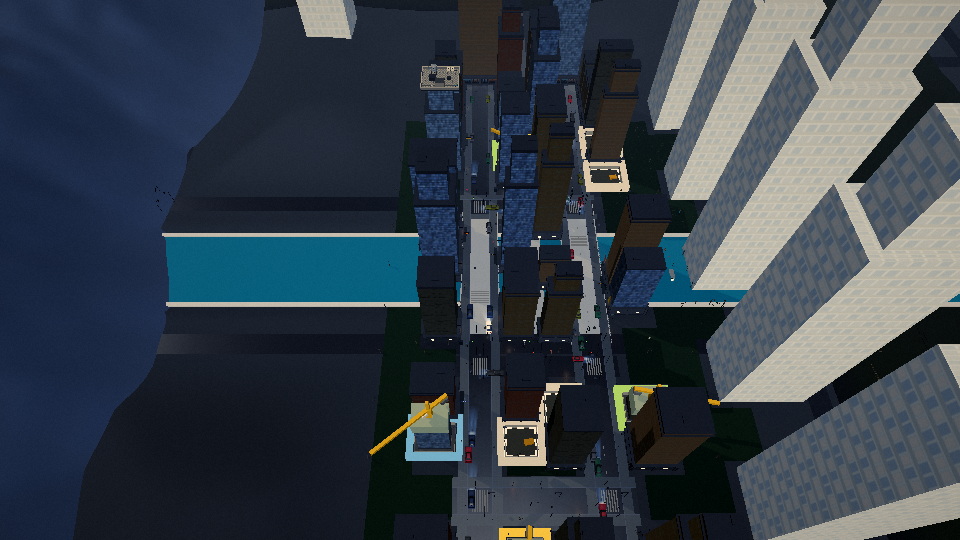
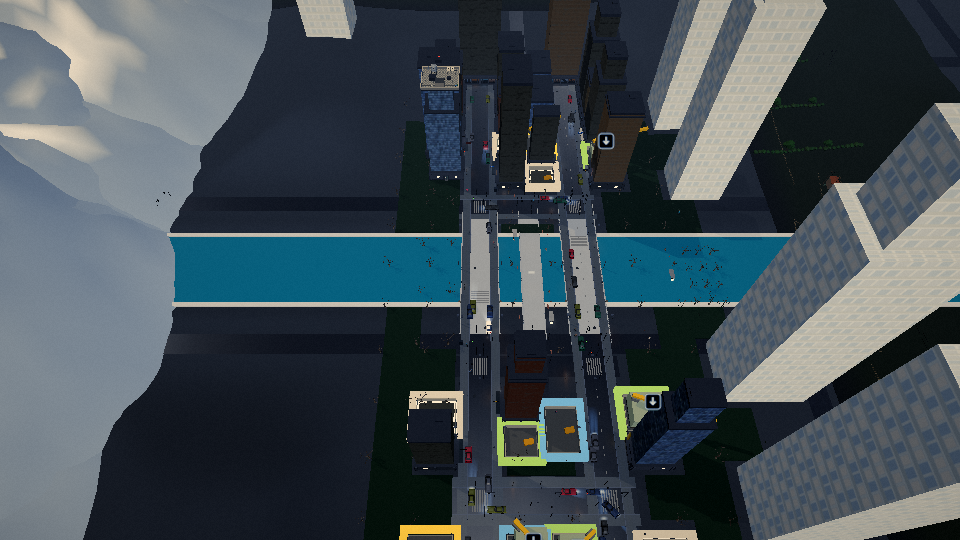
M4.T8c (M4-2): nothing stands in the river
Plans keep off map.water: rows, lots, pinned towers, caps and ring towers.
Why: seed 7 stood 8 buildings, 6 rows and 5 lots in the river rect.
Draws: no new draw calls (sim only); gate 125 hand / 128 seed 7, limit 175.

diff --git a/src/sim/layout.js b/src/sim/layout.js
@@ -13,7 +13,8 @@
 // Pure sim (law 5): no three.js, no DOM.
 import { DISTRICTS, ROAD_HALF_WIDTH, WALKWAY_WIDTH, buildable } from './world.js';
 import { worldSeed } from './seedstore.js';
-import { BUILD_LINE, PINNED_TOWERS, pinnedBuildings } from './landmarks.js';
+import { BUILD_LINE, PINNED_TOWERS, pinnedBuildings, riverWater } from './landmarks.js';
+import { waterBlocked } from './terrain.js';
 import { capsFor } from './vistas.js';
 import { mulberry32 } from './rng.js';
 
@@ -59,12 +60,23 @@ export function rowDepth(district, ax, side) {
   return Math.min(max, fair);
 }
 
+// The z bands the river takes from a row whose x band is [x0, x1] (M4-2): each
+// water rect the band reaches. Only bridges cross water, so a row, a lot and a
+// building cut from one never stand in it. The 8 m setback terrain.buildable
+// adds is the world rule for the map's lots (map.js); a row runs to the bank,
+// or the river would leave too little frontage for the lots a district offers.
+function waterHoles(water, x0, x1) {
+  return water
+    .filter(([cx, , hw]) => x0 < cx + hw && x1 > cx - hw)
+    .map(([, cz, , hd]) => [cz - hd, cz + hd]);
+}
+
 // Where a row may stand on one avenue side, as sorted [z0, z1] runs: the
 // avenue's length less ROW_END_GAP at each end, less every crossing that comes
 // within ROW_END_GAP of the row's band (x from the building line back by
-// rowDepth), cut ROW_END_GAP wider than its CROSSING_BAND. Runs shorter than
-// MIN_RUN are dropped.
-export function rowRuns(district, ax, side) {
+// rowDepth), cut ROW_END_GAP wider than its CROSSING_BAND, less the `water`
+// (map.water). Runs shorter than MIN_RUN are dropped.
+export function rowRuns(district, ax, side, water = []) {
   const depth = rowDepth(district, ax, side);
   const near = ax + side * BUILD_LINE;
   const far = ax + side * (BUILD_LINE + depth);
@@ -85,7 +97,7 @@ export function rowRuns(district, ax, side) {
     cursor = Math.max(cursor, cz1);
   }
   if (end - cursor >= MIN_RUN) runs.push([cursor, end]);
-  return runs;
+  return subtractRuns(runs, waterHoles(water, bx0, bx1)).filter(([z0, z1]) => z1 - z0 >= MIN_RUN);
 }
 
 const EPS = 1e-6;
@@ -171,17 +183,35 @@ function placeLot(sides, [w0, w1], rand) {
   return { lot, ax, side, depth };
 }
 
+// The fewest-gaps fill: every side's shortest lots laid end to end from its low
+// end, until `count` stand. A random pass wastes frontage; where the river has
+// taken half of it, the district would fall under LOTS_MIN lots without this.
+function packLots(sides, lo, hi, count) {
+  const picked = [];
+  for (const side of sides) {
+    side.placed = [];
+    for (let ranges = lotRanges(side, LOT_FRONT[0], lo, hi); ranges.length && picked.length < count;
+      ranges = lotRanges(side, LOT_FRONT[0], lo, hi)) {
+      const z = ranges[0][0];
+      side.placed.push({ z, d: LOT_FRONT[0] });
+      picked.push({ lot: [side.ax + side.side * (BUILD_LINE + side.depth / 2), z, side.depth, LOT_FRONT[0]],
+        ax: side.ax, side: side.side, depth: side.depth });
+    }
+  }
+  return picked;
+}
+
 // One pass over every avenue side: the side's free z runs, then one lot per
 // band so the lots spread across the district. A band with no room on any side
 // falls back to anywhere in the drive. Tagged with avenue and side for planLayout.
-function districtLots(district, seed, pinned) {
+function districtLots(district, seed, pinned, water) {
   const rand = mulberry32(seed);
   const lo = district.drive.minZ;
   const hi = district.drive.maxZ;
   const count = LOTS_MIN + Math.floor(rand() * (LOTS_MAX - LOTS_MIN + 1));
   const sides = district.avenues.flatMap((a) => [-1, 1].map((side) => {
     const depth = rowDepth(district, a.x, side);
-    const runs = subtractRuns(rowRuns(district, a.x, side), pinsOn(district, a.x, side, pinned))
+    const runs = subtractRuns(rowRuns(district, a.x, side, water), pinsOn(district, a.x, side, pinned))
       .map(([f0, f1]) => [Math.max(f0, lo), Math.min(f1, hi)])
       .filter(([f0, f1]) => f1 - f0 > EPS);
     return { ax: a.x, side, depth, runs, placed: [] };
@@ -191,7 +221,7 @@ function districtLots(district, seed, pinned) {
     const spot = placeLot(sides, band, rand) || placeLot(sides, [lo, hi], rand);
     if (spot) picked.push(spot);
   }
-  return picked;
+  return picked.length >= LOTS_MIN ? picked : packLots(sides, lo, hi, count);
 }
 
 // The district's lots, as [x, z, w, d] like zoning's LOTS: LOTS_MIN..LOTS_MAX of
@@ -199,9 +229,10 @@ function districtLots(district, seed, pinned) {
 // a LOT_FRONT long inside one of that side's rowRuns, wholly inside the
 // district's drive bounds in z, clear of the pinned towers, and never
 // overlapping another lot. The same seed always gives the same lots. `pinned`
-// is the map's own tower table; omitted, the hand map's PINNED_TOWERS.
-export function deriveLots(district, seed, pinned = PINNED_TOWERS) {
-  return districtLots(district, seed, pinned).map((p) => p.lot);
+// is the map's own tower table; omitted, the hand map's PINNED_TOWERS. `water`
+// is the map's water; omitted, the seed's river.
+export function deriveLots(district, seed, pinned = PINNED_TOWERS, water = riverWater(seed)) {
+  return districtLots(district, seed, pinned, water).map((p) => p.lot);
 }
 
 // Everything the street wall and zoning need: { district, seed, lots, rows },
@@ -210,13 +241,15 @@ export function deriveLots(district, seed, pinned = PINNED_TOWERS) {
 // avenue side: rowRuns less each lot widened by LOT_CLEAR and the pinned towers
 // (on the first avenue) widened by PIN_CLEAR, with runs under MIN_RUN dropped.
 // `pinned` is the map's own tower table; omitted, the hand map's PINNED_TOWERS.
-export function planLayout(district, seed, pinned = PINNED_TOWERS) {
-  const picked = districtLots(district, seed, pinned);
+// `water` is the map's water; omitted, the seed's river: no lot or row stands in
+// it (M4-2).
+export function planLayout(district, seed, pinned = PINNED_TOWERS, water = riverWater(seed)) {
+  const picked = districtLots(district, seed, pinned, water);
   const rows = district.avenues.flatMap((a) => [-1, 1].map((side) => {
     const holes = picked.filter((p) => p.ax === a.x && p.side === side)
       .map((p) => [p.lot[1] - p.lot[3] / 2 - LOT_CLEAR, p.lot[1] + p.lot[3] / 2 + LOT_CLEAR])
       .concat(pinsOn(district, a.x, side, pinned));
-    const runs = subtractRuns(rowRuns(district, a.x, side), holes)
+    const runs = subtractRuns(rowRuns(district, a.x, side, water), holes)
       .filter(([z0, z1]) => z1 - z0 >= MIN_RUN - EPS);
     return { ax: a.x, side, depth: rowDepth(district, a.x, side), runs };
   }));
@@ -536,9 +569,12 @@ function rowBuilding(b) {
 // style the district style a use comes from (rows), facade the architecture
 // render/block.js pools, x/z/w/d the footprint, h the height, face the front.
 // `plan` is planLayout's; plan.pinned and plan.caps override the world's own,
-// so a map built for another seed uses that seed's towers and caps.
+// so a map built for another seed uses that seed's towers and caps. A cap the
+// river reaches is left out: an avenue's end may open on the stream.
 export function buildingsOf(plan) {
-  const caps = plan.caps ?? capsFor(plan.district, plan.seed);
+  const water = riverWater(plan.seed);
+  const caps = (plan.caps ?? capsFor(plan.district, plan.seed))
+    .filter((c) => !waterBlocked(water, c.x, c.z, c.w, c.d));
   return [
     ...pinnedBuildings(plan.district, plan.pinned),
     ...planBuildings(plan.district, plan.seed, plan).map(rowBuilding),

diff --git a/src/sim/landmarks.js b/src/sim/landmarks.js
@@ -7,6 +7,15 @@
 // Pure sim (law 5): no three.js, no DOM.
 import { AVENUES, AVENUE_X, CROSSINGS, ROAD_HALF_WIDTH, WALKWAY_WIDTH } from './world.js';
 import { worldSeed } from './seedstore.js';
+import { planTown } from './townplan.js';
+import { waterBlocked } from './terrain.js';
+
+// The town's water for a seed, as terrain's [cx, cz, hw, hd] rects: map.water,
+// derived without building the map, so a plan that runs before it (layout,
+// dressing, the pinned towers) keeps off the same river the map carries (M4-2).
+export function riverWater(seed) {
+  return planTown(seed).river.rects;
+}
 
 // Shaft face of every avenue row, metres from the avenue centre-line. The
 // podium stands 0.6 m proud of it, so the shopfronts meet the walkway edge.
@@ -31,14 +40,16 @@ export const PIN_BAND = ROAD_HALF_WIDTH + WALKWAY_WIDTH;
 // footprint (z - d / 2 to z + d / 2) stays PIN_GAP clear of every crossing band
 // (c.z +- PIN_BAND), of the avenue's z0 and z1, and of every tower already
 // placed; otherwise it takes the nearest z on the half-metre grid that does,
-// trying hand z - 0.5, hand z + 0.5, hand z - 1, ... in that order.
+// trying hand z - 0.5, hand z + 0.5, hand z - 1, ... in that order. A tower
+// never stands on water or in its setback (M4.T8c): a z the river reaches is
+// not free.
 // A tower at z clears the span z0..z1 (already widened by whatever gap the
 // caller owes) when its footprint sits entirely outside it.
 function clearOf(t, z, z0, z1) {
   return z + t.d / 2 <= z0 || z - t.d / 2 >= z1;
 }
 
-function isFree(t, z, placed, avenue, crossings) {
+function isFree(t, z, placed, avenue, crossings, water) {
   if (z - t.d / 2 < avenue.z0 + PIN_GAP) return false;
   if (z + t.d / 2 > avenue.z1 - PIN_GAP) return false;
   for (const c of crossings) {
@@ -47,30 +58,32 @@ function isFree(t, z, placed, avenue, crossings) {
   for (const u of placed) {
     if (!clearOf(t, z, u.z - u.d / 2 - PIN_GAP, u.z + u.d / 2 + PIN_GAP)) return false;
   }
-  return true;
+  return !waterBlocked(water, towerCentreX(t, avenue.x), z, t.w, t.d);
 }
 
 // hand z first, then hand z - 0.5, hand z + 0.5, hand z - 1, ... — nearest first.
-function nearestFreeZ(t, placed, avenue, crossings) {
-  if (isFree(t, t.z, placed, avenue, crossings)) return t.z;
+function nearestFreeZ(t, placed, avenue, crossings, water) {
+  if (isFree(t, t.z, placed, avenue, crossings, water)) return t.z;
   const span = avenue.z1 - avenue.z0;
   for (let n = 1; n <= span * 2; n++) {
     const step = Math.ceil(n / 2) * 0.5;
     const z = t.z + (n % 2 === 1 ? -step : step);
-    if (isFree(t, z, placed, avenue, crossings)) return z;
+    if (isFree(t, z, placed, avenue, crossings, water)) return z;
   }
   throw new Error(`landmarks: no free z for ${t.id}`);
 }
 
-export function placePinned(hand, avenue, crossings) {
+export function placePinned(hand, avenue, crossings, water = []) {
   const placed = [];
   for (const t of hand) {
-    placed.push({ ...t, z: nearestFreeZ(t, placed, avenue, crossings) });
+    placed.push({ ...t, z: nearestFreeZ(t, placed, avenue, crossings, water) });
   }
   return placed;
 }
 
-export const PINNED_TOWERS = worldSeed().generate ? placePinned(HAND_PINNED, AVENUES[0], CROSSINGS) : HAND_PINNED;
+export const PINNED_TOWERS = worldSeed().generate
+  ? placePinned(HAND_PINNED, AVENUES[0], CROSSINGS, riverWater(worldSeed().seed))
+  : HAND_PINNED;
 
 // Where a tower's shaft centre stands: out from its avenue centre-line by the
 // building line plus half the shaft width. `ax` lets a generated map use its own.

diff --git a/tests/dressing-place.spec.js b/tests/dressing-place.spec.js
@@ -5,7 +5,7 @@
 import { test, expect } from '@playwright/test';
 import { generateDistrict } from '../src/sim/citygen.js';
 import { planLayout } from '../src/sim/layout.js';
-import { HAND_PINNED, placePinned } from '../src/sim/landmarks.js';
+import { HAND_PINNED, placePinned, riverWater } from '../src/sim/landmarks.js';
 import { spawnFor } from '../src/sim/spawn.js';
 import { mulberry32 } from '../src/sim/rng.js';
 import { ROAD_HALF_WIDTH, WALKWAY_WIDTH } from '../src/sim/world.js';
@@ -32,7 +32,7 @@ function clearZ(d, k, z) {
 // The rule, written out a second way.
 function expected(d, seed) {
   const a0 = d.avenues[0];
-  const ramen = placePinned(HAND_PINNED, a0, d.crossings).find((t) => t.id === 'ramen');
+  const ramen = placePinned(HAND_PINNED, a0, d.crossings, riverWater(seed)).find((t) => t.id === 'ramen');
   const face = (side) => (side < 0 ? Math.PI / 2 : -Math.PI / 2);
   const shops = [{ x: a0.x + ramen.side * SHOP_OUT, z: ramen.z + RAMEN_SIGN_DZ, ry: face(ramen.side), kind: 0 }];
   const cands = [];
@@ -97,7 +97,7 @@ test('the RAMEN board hangs on the noodle bar and every other sign on a wall wid
   for (const seed of SEEDS) {
     const d = generateDistrict(seed);
     const { shops } = planDressing(d, seed);
-    const ramen = placePinned(HAND_PINNED, d.avenues[0], d.crossings).find((t) => t.id === 'ramen');
+    const ramen = placePinned(HAND_PINNED, d.avenues[0], d.crossings, riverWater(seed)).find((t) => t.id === 'ramen');
     expect(shops[0].kind, `seed ${seed}`).toBe(0);
     expect(shops.slice(1).some((s) => s.kind === 0), `seed ${seed}: a second RAMEN`).toBe(false);
     expect(Math.abs(shops[0].z - ramen.z) + 3, `seed ${seed}: RAMEN off its tower`).toBeLessThanOrEqual(ramen.d / 2);

diff --git a/src/sim/vistas.js b/src/sim/vistas.js
@@ -8,6 +8,7 @@
 // is the hand map's fallback until M3.T14 deletes it (M3-2).
 import { DISTRICTS } from './world.js';
 import { worldSeed } from './seedstore.js';
+import { waterBlocked } from './terrain.js';
 import { mulberry32 } from './rng.js';
 
 // Its own random stream, so a vista never moves a lot or a row building.
@@ -125,11 +126,16 @@ export function planVistas(district, seed) {
 // buildings, and its ring derives from the map's own district and seed; a map
 // without buildings is the hand preset, whose renderer keeps its own tables.
 // With no map the booted world's WORLD_VISTAS stands, so today's callers are
-// unchanged until M3.T13's renderer passes the map (M3-2).
+// unchanged until M3.T13's renderer passes the map (M3-2). A ring tower the
+// map's water reaches is left out: only bridges cross the river (M4-2).
 export function vistasOf(map) {
   if (!map) return WORLD_VISTAS;
   if (!map.buildings) return null;
-  return { caps: map.buildings.filter((b) => b.kind === 'cap'), ring: ringFor(map.district, map.seed) };
+  const water = map.water ?? [];
+  return {
+    caps: map.buildings.filter((b) => b.kind === 'cap'),
+    ring: ringFor(map.district, map.seed).filter((t) => !waterBlocked(water, t.x, t.z, t.w, t.d)),
+  };
 }
 
 export const WORLD_VISTAS = worldSeed().generate ? planVistas(DISTRICTS[0], worldSeed().seed) : null;

diff --git a/src/sim/dressing.js b/src/sim/dressing.js
@@ -15,7 +15,7 @@ import { DISTRICTS } from './world.js';
 import { worldSeed } from './seedstore.js';
 import { mulberry32 } from './rng.js';
 import { planLayout } from './layout.js';
-import { HAND_PINNED, placePinned } from './landmarks.js';
+import { HAND_PINNED, placePinned, riverWater } from './landmarks.js';
 import { spawnFor } from './spawn.js';
 
 // What the hand preset has always drawn. A shop is { x, z, ry, kind }: the sign
@@ -132,7 +132,7 @@ const face = (side) => (side < 0 ? Math.PI / 2 : -Math.PI / 2);
 
 function shopsFor(district, seed) {
   const a0 = district.avenues[0];
-  const ramen = placePinned(HAND_PINNED, a0, district.crossings).find((t) => t.id === 'ramen');
+  const ramen = placePinned(HAND_PINNED, a0, district.crossings, riverWater(seed)).find((t) => t.id === 'ramen');
   const shops = [{ x: a0.x + ramen.side * SHOP_OUT, z: ramen.z + RAMEN_SIGN_DZ, ry: face(ramen.side), kind: 0 }];
   const cands = [];
   for (const r of planLayout(district, seed).rows) {

diff --git a/tests/layout-lots.spec.js b/tests/layout-lots.spec.js
@@ -6,6 +6,7 @@ import {
   BUILD_LINE, LOT_CLEAR, LOT_FRONT, LOTS_MAX, LOTS_MIN, MIN_RUN, PIN_CLEAR, PINNED_TOWERS,
   deriveLots, planLayout, rowDepth, rowRuns,
 } from '../src/sim/layout.js';
+import { riverWater } from '../src/sim/landmarks.js';
 import { sweep } from './sweep.js';
 
 const SEEDS = sweep(300);
@@ -84,7 +85,7 @@ test('the plan cuts every lot and pinned tower out of its row', () => {
     for (const row of plan.rows) {
       const at = `seed ${seed} row x=${row.ax} side ${row.side}`;
       expect(row.depth, `${at}: depth`).toBeCloseTo(rowDepth(d, row.ax, row.side), 9);
-      const full = rowRuns(d, row.ax, row.side);
+      const full = rowRuns(d, row.ax, row.side, riverWater(seed));
       const mine = plan.lots.filter((lot) => {
         const h = homeOf(d, lot);
         return h && h.ax === row.ax && h.side === row.side;

diff --git a/src/sim/map.js b/src/sim/map.js
@@ -233,8 +233,11 @@ export function createMap(seed) {
   const town = planTown(seed);
   const water = town.river.rects;
   const cells = town.cells.map((cell) => generateDistrict(seed, cell, cell.kind));
-  const plan = planLayout(district, seed);
-  plan.pinned = placePinned(HAND_PINNED, district.avenues[0], district.crossings);
+  // The towers first: the plan's lots and rows keep clear of where they stand
+  // on this map, which the river can move off the hand preset's place (M4-2).
+  const pinned = placePinned(HAND_PINNED, district.avenues[0], district.crossings, water);
+  const plan = planLayout(district, seed, pinned, water);
+  plan.pinned = pinned;
   const dressing = planDressing(district, seed);
   const arc = arcFor(RAW_ARC, district);
   const graph = markBridges(districtsGraph(cells, town, district), water);

diff --git a/docs/shots/REVIEW.md b/docs/shots/REVIEW.md
@@ -232,6 +232,6 @@ the night-road lane built nothing).
 | D17 | A west heading at the spawn opened the follow camera inside the block east of the avenue: 144/144 picked cells at 0 m, centre pixel pure black | seeds 7 and 22, spawn, day and night | **fixed** M1.T6 (`game/camera.js` pulls the arm out of the street wall); 0 cells at 0 m on both seeds |
 | D18 | HUD panels overlap each other's text: news covered the mission panel end to end and the city palette sat under the district table, lot note and story dialogue | city view, seed 7 | **fixed** M1.T6 (`game/hud.js` stacks the bottom-left column and sets the mission panel under the news; measured 0 overlapping pairs) |
 | D19 | At the spawn pose the clear and overcast day shots are hard to tell apart on the eye: towers occlude the sky, and the sun's dimming shows mostly in the distant haze | M2-7 shots, `docs/shots/m2-weather-clear-day.png` / `-overcast-day.png` | open; measured in the frame (sky cells, 15+ levels), weak in the still. M2/M26 weather look |
-| D20 | Seven of seed 7's 31 legacy street-wall rows stand in the 30 m water rect and its 8 m setback (e.g. (-6.3, 21.2), 31 m tall, north face z = 12.9 inside the river); from the seeded spawn the wall hides the river from the city view and from a pick, and a row's shell rises out of the water | seed 7, city view over (-18.5, 0.8); pick at (-3.5, 0) hits a row | open; sim placement (layout.js/map.js) debt, M4.T15 removes the spans at source. The river itself is carved and drawn correctly (`displaceToTerrain` drops every ground surface in a water rect to WATER_BED), and the check's deck-clear probe no longer lands on a row |
+| D20 | Seven of seed 7's 31 legacy street-wall rows stand in the 30 m water rect and its 8 m setback (e.g. (-6.3, 21.2), 31 m tall, north face z = 12.9 inside the river); from the seeded spawn the wall hides the river from the city view and from a pick, and a row's shell rises out of the water | seed 7, city view over (-18.5, 0.8); pick at (-3.5, 0) hits a row | **fixed** M4.T8c: `layout.js` cuts the river out of every row, lot and pinned tower, `vistas.js` leaves out ring towers on it; `docs/shots/m4-river-7.png` shows only bridges across the stream, `tests/accept/m4-dry-land.test.js`. Was: sim placement (layout.js/map.js) debt, M4.T15 removes the spans at source. The river itself is carved and drawn correctly (`displaceToTerrain` drops every ground surface in a water rect to WATER_BED), and the check's deck-clear probe no longer lands on a row |
 | D21 | Seed 7's river probe `near.x + 15` = (-3.5, 0) lay on the **next** bridge: art-ns1 crosses the same 30 m river at x = 0 with a 3.9 m half-deck, so pick #1 was `bridge` and the water 1 cm under it. The two in-town bridges are 18.5 m apart; the check assumed one bridge per ~600 m | `tests/accept/m4-river-look.spec.js:43`, seed 7 | **fixed** main `97c226b`: the probe picks the candidate 8/15/30 m off the bridge with the largest gap to every deck (seed 7: (-48.5, 0.75), 30 m clear) |
 | D22 | Seed 7's deck probe (-18.5, 0.8) lay behind a transparent white glow quad (`MeshBasicMaterial`, `see: true`, equal distance): pick #1 was the quad, the deck #2 | `tests/accept/m4-river-look.spec.js:49`, seed 7 | **fixed** main `97c226b`: `pickAt` filters see-through hits (glow, rain), as `m3-render.spec.js` does |
